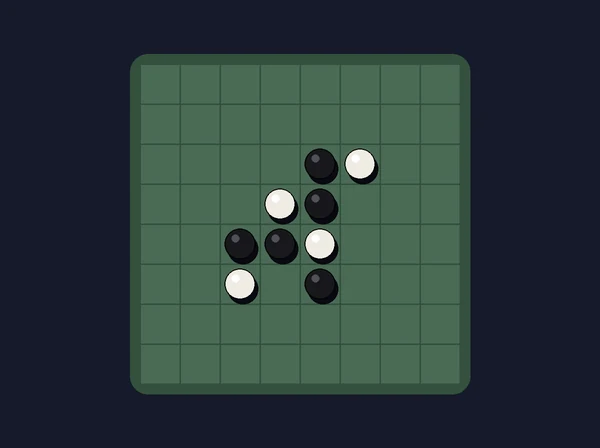
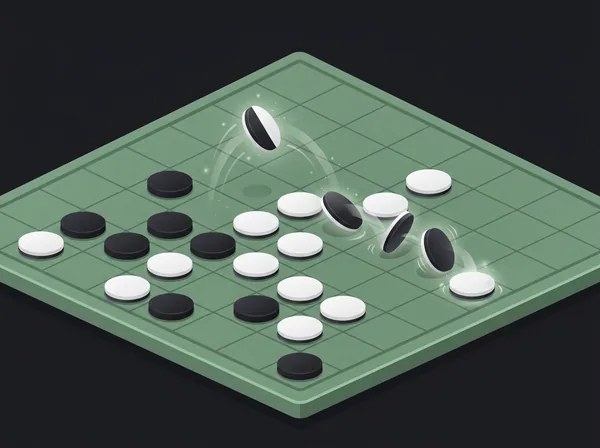
Vignettes des nouveaux jeux (28 images)

diff --git a/assets/js/jeux/catalogue.js b/assets/js/jeux/catalogue.js
@@ -48,40 +48,40 @@ export const CARTES = [
   { id: 'arcade-raclette', image: `${IMG}arcade-raclette.webp`, titre: 'Raclette', texte: 'Un jeu d’arcade qui sent bon le fromage.', section: 'flash', href: '#arcade-raclette', couleur: 'var(--amber)',
     icone: '<path d="M3 15l9-8 9 8z"/><path d="M7 15v3h10v-3"/><path d="M10 12h.01M14 13h.01"/>' },
   // Nouveaux jeux en développement : visibles et jouables par les seuls admins (admin: true)
-  { id: 'nj-carte', titre: 'Carte mystère', texte: 'Reconnais la carte floutée.', section: 'flash', href: '#carte-mystere', onglet: 'carte-mystere', admin: true, couleur: 'var(--plum)',
+  { id: 'nj-carte', image: `${IMG}nj-carte.webp`, titre: 'Carte mystère', texte: 'Reconnais la carte floutée.', section: 'flash', href: '#carte-mystere', onglet: 'carte-mystere', admin: true, couleur: 'var(--plum)',
     icone: '<rect x="5" y="3" width="14" height="18" rx="2"/><path d="M10 9.5a2 2 0 1 1 2.8 1.8c-.5.3-.8.7-.8 1.2V13M12 16.5v.01"/>' },
-  { id: 'nj-jv', titre: 'Jeu vidéo du jour', texte: 'Une capture zoomée : quel jeu ?', section: 'flash', href: '#jeu-video', onglet: 'jeu-video', admin: true, couleur: 'var(--slate)',
+  { id: 'nj-jv', image: `${IMG}nj-jv.webp`, titre: 'Jeu vidéo du jour', texte: 'Une capture zoomée : quel jeu ?', section: 'flash', href: '#jeu-video', onglet: 'jeu-video', admin: true, couleur: 'var(--slate)',
     icone: '<rect x="2" y="7" width="20" height="10" rx="4"/><path d="M7 10v4M5 12h4M15 11h.01M18 13h.01"/>' },
-  { id: 'nj-pochette', titre: 'Pochette du jour', texte: 'Retrouve l’album derrière le flou.', section: 'flash', href: '#pochette', onglet: 'pochette', admin: true, couleur: 'var(--rose)',
+  { id: 'nj-pochette', image: `${IMG}nj-pochette.webp`, titre: 'Pochette du jour', texte: 'Retrouve l’album derrière le flou.', section: 'flash', href: '#pochette', onglet: 'pochette', admin: true, couleur: 'var(--rose)',
     icone: '<rect x="3" y="3" width="18" height="18" rx="2"/><circle cx="12" cy="12" r="4"/><circle cx="12" cy="12" r=".5"/>' },
-  { id: 'nj-replique', titre: 'Réplique du jour', texte: 'Une réplique culte : quel film ?', section: 'flash', href: '#replique', onglet: 'replique', admin: true, couleur: 'var(--sand)',
+  { id: 'nj-replique', image: `${IMG}nj-replique.webp`, titre: 'Réplique du jour', texte: 'Une réplique culte : quel film ?', section: 'flash', href: '#replique', onglet: 'replique', admin: true, couleur: 'var(--sand)',
     icone: '<path d="M4 5h16v11H9l-5 4z"/><path d="M8 9h1M12 9h1M8 12h5"/>' },
-  { id: 'nj-pays', titre: 'Pays du jour', texte: 'Une silhouette, six essais.', section: 'flash', href: '#pays', onglet: 'pays', admin: true, couleur: 'var(--sage)',
+  { id: 'nj-pays', image: `${IMG}nj-pays.webp`, titre: 'Pays du jour', texte: 'Une silhouette, six essais.', section: 'flash', href: '#pays', onglet: 'pays', admin: true, couleur: 'var(--sage)',
     icone: '<circle cx="12" cy="12" r="9"/><path d="M3 12h18M12 3a14 14 0 0 1 0 18M12 3a14 14 0 0 0 0 18"/>' },
-  { id: 'nj-plat', titre: 'Plat du jour', texte: 'D’où vient ce plat ?', section: 'flash', href: '#plat', onglet: 'plat', admin: true, couleur: 'var(--amber)',
+  { id: 'nj-plat', image: `${IMG}nj-plat.webp`, titre: 'Plat du jour', texte: 'D’où vient ce plat ?', section: 'flash', href: '#plat', onglet: 'plat', admin: true, couleur: 'var(--amber)',
     icone: '<path d="M3 13h18a9 9 0 0 1-18 0z"/><path d="M8 9c0-2 2-2 2-4M13 9c0-2 2-2 2-4"/>' },
-  { id: 'nj-connexions', titre: 'Connexions', texte: '16 mots, 4 groupes cachés.', section: 'flash', href: '#connexions', onglet: 'connexions', admin: true, couleur: 'var(--sage)',
+  { id: 'nj-connexions', image: `${IMG}nj-connexions.webp`, titre: 'Connexions', texte: '16 mots, 4 groupes cachés.', section: 'flash', href: '#connexions', onglet: 'connexions', admin: true, couleur: 'var(--sage)',
     icone: '<rect x="3" y="3" width="8" height="8" rx="2"/><rect x="13" y="3" width="8" height="8" rx="2"/><rect x="3" y="13" width="8" height="8" rx="2"/><rect x="13" y="13" width="8" height="8" rx="2"/>' },
-  { id: 'nj-motscroises', titre: 'Mots croisés', texte: 'Une mini grille par jour.', section: 'flash', href: '#mots-croises', onglet: 'mots-croises', admin: true, couleur: 'var(--sand)',
+  { id: 'nj-motscroises', image: `${IMG}nj-motscroises.webp`, titre: 'Mots croisés', texte: 'Une mini grille par jour.', section: 'flash', href: '#mots-croises', onglet: 'mots-croises', admin: true, couleur: 'var(--sand)',
     icone: '<path d="M3 3h18v18H3z"/><path d="M3 9h18M9 3v18"/>' },
-  { id: 'nj-motmele', titre: 'Mot mêlé', texte: 'Retrouve les mots cachés.', section: 'flash', href: '#mot-mele', onglet: 'mot-mele', admin: true, couleur: 'var(--slate)',
+  { id: 'nj-motmele', image: `${IMG}nj-motmele.webp`, titre: 'Mot mêlé', texte: 'Retrouve les mots cachés.', section: 'flash', href: '#mot-mele', onglet: 'mot-mele', admin: true, couleur: 'var(--slate)',
     icone: '<rect x="3" y="3" width="18" height="18" rx="2"/><path d="M7 7l10 10"/>' },
-  { id: 'nj-anagramme', titre: 'Anagramme', texte: 'Remets les lettres dans l’ordre.', section: 'flash', href: '#anagramme', onglet: 'anagramme', admin: true, couleur: 'var(--rose)',
+  { id: 'nj-anagramme', image: `${IMG}nj-anagramme.webp`, titre: 'Anagramme', texte: 'Remets les lettres dans l’ordre.', section: 'flash', href: '#anagramme', onglet: 'anagramme', admin: true, couleur: 'var(--rose)',
     icone: '<path d="M4 17l4-10 4 10M5.5 13h5M14 7h6l-6 10h6"/>' },
-  { id: 'nj-nerdle', titre: 'Nerdle du gang', texte: 'Devine le calcul en 6 essais.', section: 'flash', href: '#nerdle', onglet: 'nerdle', admin: true, couleur: 'var(--plum)',
+  { id: 'nj-nerdle', image: `${IMG}nj-nerdle.webp`, titre: 'Nerdle du gang', texte: 'Devine le calcul en 6 essais.', section: 'flash', href: '#nerdle', onglet: 'nerdle', admin: true, couleur: 'var(--plum)',
     icone: '<path d="M5 8h4M7 6v4M15 8h4M5 16h4M15 15h4M15 17h4"/>' },
-  { id: 'nj-sudoku', titre: 'Sudoku du jour', texte: 'La même grille pour tout le gang.', section: 'flash', href: '#sudoku', onglet: 'sudoku', admin: true, couleur: 'var(--slate)',
+  { id: 'nj-sudoku', image: `${IMG}nj-sudoku.webp`, titre: 'Sudoku du jour', texte: 'La même grille pour tout le gang.', section: 'flash', href: '#sudoku', onglet: 'sudoku', admin: true, couleur: 'var(--slate)',
     icone: '<rect x="3" y="3" width="18" height="18" rx="1"/><path d="M9 3v18M15 3v18M3 9h18M3 15h18"/>' },
-  { id: 'nj-demineur', titre: 'Démineur', texte: 'Évite les cœurs cachés, au chrono.', section: 'flash', href: '#demineur', admin: true, couleur: 'var(--rust)',
+  { id: 'nj-demineur', image: `${IMG}nj-demineur.webp`, titre: 'Démineur', texte: 'Évite les cœurs cachés, au chrono.', section: 'flash', href: '#demineur', admin: true, couleur: 'var(--rust)',
     icone: '<rect x="3" y="3" width="18" height="18" rx="2"/><path d="M3 9h18M3 15h18M9 3v18M15 3v18"/>' },
-  { id: 'nj-2048', titre: '2048 Paillettes', texte: 'Fusionne jusqu’à la légendaire.', section: 'flash', href: '#2048', admin: true, couleur: 'var(--sand)',
+  { id: 'nj-2048', image: `${IMG}nj-2048.webp`, titre: '2048 Paillettes', texte: 'Fusionne jusqu’à la légendaire.', section: 'flash', href: '#2048', admin: true, couleur: 'var(--sand)',
     icone: '<rect x="3" y="3" width="8" height="8" rx="1"/><rect x="13" y="3" width="8" height="8" rx="1"/><rect x="3" y="13" width="8" height="8" rx="1"/><rect x="13" y="13" width="8" height="8" rx="1"/>' },
-  { id: 'arcade-flappy', titre: 'Flappy Domu', texte: 'Le cœur du gang s’envole.', section: 'flash', href: '#arcade-flappy', admin: true, couleur: 'var(--rose)' },
-  { id: 'arcade-briques', titre: 'Casse-briques', texte: 'Des cartes en briques.', section: 'flash', href: '#arcade-briques', admin: true, couleur: 'var(--amber)' },
-  { id: 'arcade-snake', titre: 'Snake', texte: 'Mange des raclettes, grandis.', section: 'flash', href: '#arcade-snake', admin: true, couleur: 'var(--sage)' },
-  { id: 'arcade-tetris', titre: 'Tetris du gang', texte: 'Des pièces arc-en-ciel.', section: 'flash', href: '#arcade-tetris', admin: true, couleur: 'var(--slate)' },
-  { id: 'arcade-invaders', titre: 'Space Invaders', texte: 'Les cornichons attaquent.', section: 'flash', href: '#arcade-invaders', admin: true, couleur: 'var(--sage)' },
-  { id: 'arcade-taupe', titre: 'Tape-taupe', texte: 'Tape les membres qui sortent.', section: 'flash', href: '#arcade-taupe', admin: true, couleur: 'var(--rust)' },
+  { id: 'arcade-flappy', image: `${IMG}arcade-flappy.webp`, titre: 'Flappy Domu', texte: 'Le cœur du gang s’envole.', section: 'flash', href: '#arcade-flappy', admin: true, couleur: 'var(--rose)' },
+  { id: 'arcade-briques', image: `${IMG}arcade-briques.webp`, titre: 'Casse-briques', texte: 'Des cartes en briques.', section: 'flash', href: '#arcade-briques', admin: true, couleur: 'var(--amber)' },
+  { id: 'arcade-snake', image: `${IMG}arcade-snake.webp`, titre: 'Snake', texte: 'Mange des raclettes, grandis.', section: 'flash', href: '#arcade-snake', admin: true, couleur: 'var(--sage)' },
+  { id: 'arcade-tetris', image: `${IMG}arcade-tetris.webp`, titre: 'Tetris du gang', texte: 'Des pièces arc-en-ciel.', section: 'flash', href: '#arcade-tetris', admin: true, couleur: 'var(--slate)' },
+  { id: 'arcade-invaders', image: `${IMG}arcade-invaders.webp`, titre: 'Space Invaders', texte: 'Les cornichons attaquent.', section: 'flash', href: '#arcade-invaders', admin: true, couleur: 'var(--sage)' },
+  { id: 'arcade-taupe', image: `${IMG}arcade-taupe.webp`, titre: 'Tape-taupe', texte: 'Tape les membres qui sortent.', section: 'flash', href: '#arcade-taupe', admin: true, couleur: 'var(--rust)' },
   { id: 'arcade-domu', image: `${IMG}arcade-domu.webp`, titre: 'Domu-mobile', texte: 'Conduis, esquive, arrive en premier.', section: 'flash', href: '#arcade-domu', couleur: 'var(--rust)',
     icone: '<path d="M3 15l2-5h11l3 5"/><path d="M3 15h18v2H3z"/><circle cx="7.5" cy="18" r="1.5"/><circle cx="16.5" cy="18" r="1.5"/>' },
 
@@ -92,13 +92,13 @@ export const CARTES = [
   { id: 'morpion', titre: 'Morpion', texte: 'Classique, Ultime ou Gomoku.', section: 'multi', href: 'duels.html#creer/morpion', page: 'duels', image: `${IMG}morpion.webp` },
   { id: 'bataille-navale', titre: 'Bataille navale', texte: 'Cache ta flotte, coule la sienne.', section: 'multi', href: 'duels.html#creer/bataille', page: 'duels', image: `${IMG}bataille-navale.webp` },
   { id: 'mastermind', titre: 'Mastermind', texte: 'Perce le code secret.', section: 'multi', href: 'duels.html#creer/mastermind', page: 'duels', image: `${IMG}mastermind.webp` },
-  { id: 'nj-dames', titre: 'Dames', texte: 'Prises obligatoires, rafles et dames volantes.', section: 'multi', href: 'duels.html#creer/dames', admin: true, couleur: 'var(--slate)',
+  { id: 'nj-dames', image: `${IMG}dames.webp`, titre: 'Dames', texte: 'Prises obligatoires, rafles et dames volantes.', section: 'multi', href: 'duels.html#creer/dames', admin: true, couleur: 'var(--slate)',
     icone: '<circle cx="8" cy="8" r="3"/><circle cx="16" cy="16" r="3"/><path d="M3 3h18v18H3z"/>' },
-  { id: 'nj-echecs', titre: 'Échecs', texte: 'Le grand classique, contre un membre ou le robot.', section: 'multi', href: 'duels.html#creer/echecs', admin: true, couleur: 'var(--sand)',
+  { id: 'nj-echecs', image: `${IMG}echecs.webp`, titre: 'Échecs', texte: 'Le grand classique, contre un membre ou le robot.', section: 'multi', href: 'duels.html#creer/echecs', admin: true, couleur: 'var(--sand)',
     icone: '<path d="M9 21h6M8 18h8M10 18l-1-6h6l-1 6M9 12a3 3 0 1 1 6 0M12 3v3M10.5 4.5h3"/>' },
-  { id: 'nj-othello', titre: 'Othello', texte: 'Encadre et retourne les pions.', section: 'multi', href: 'duels.html#creer/othello', admin: true, couleur: 'var(--sage)',
+  { id: 'nj-othello', image: `${IMG}othello.webp`, titre: 'Othello', texte: 'Encadre et retourne les pions.', section: 'multi', href: 'duels.html#creer/othello', admin: true, couleur: 'var(--sage)',
     icone: '<circle cx="8" cy="12" r="4"/><circle cx="16" cy="12" r="4" fill="currentColor"/>' },
-  { id: 'nj-pfc', titre: 'Pierre-feuille-ciseaux', texte: 'En 1, 3 ou 5 manches.', section: 'multi', href: 'duels.html#creer/pfc', admin: true, couleur: 'var(--rose)',
+  { id: 'nj-pfc', image: `${IMG}pfc.webp`, titre: 'Pierre-feuille-ciseaux', texte: 'En 1, 3 ou 5 manches.', section: 'multi', href: 'duels.html#creer/pfc', admin: true, couleur: 'var(--rose)',
     icone: '<circle cx="7" cy="16" r="3"/><rect x="12" y="4" width="8" height="10" rx="1"/><path d="M5 4l6 8M11 4l-6 8"/>' },
   { id: 'qui-est-ce', titre: 'Qui est-ce ?', texte: 'Devine son personnage secret.', section: 'multi', href: 'duels.html#creer/quiestce', page: 'duels', image: `${IMG}qui-est-ce.webp` },
   { id: 'nom-de-code', titre: 'Codenames', texte: 'Fais deviner tes mots à ton équipe.', section: 'multi', href: 'nom-de-code.html', page: 'nom-de-code', image: `${IMG}nom-de-code.webp` },
@@ -109,13 +109,13 @@ export const CARTES = [
   { id: 'uno', image: `${IMG}uno.webp`, titre: 'Uno', texte: 'Vide ta main avant les autres.', section: 'speciaux', href: 'uno.html', page: 'uno', couleur: 'var(--rose)',
     icone: '<rect x="4" y="5" width="10" height="15" rx="2" transform="rotate(-10 9 12)"/><rect x="10" y="4" width="10" height="15" rx="2" transform="rotate(8 15 11)"/>' },
   // Nouveaux jeux de plateau en développement (admins seulement)
-  { id: 'nj-blackjack', titre: 'Blackjack', texte: 'Contre la banque, à qui s’approche de 21.', section: 'speciaux', href: 'blackjack.html', admin: true, couleur: 'var(--sage)',
+  { id: 'nj-blackjack', image: `${IMG}blackjack.webp`, titre: 'Blackjack', texte: 'Contre la banque, à qui s’approche de 21.', section: 'speciaux', href: 'blackjack.html', admin: true, couleur: 'var(--sage)',
     icone: '<rect x="3" y="5" width="11" height="15" rx="2"/><rect x="10" y="3" width="11" height="15" rx="2"/><path d="M14 9l2 3-2 3-2-3z"/>' },
-  { id: 'nj-poker', titre: 'Poker', texte: 'Texas Hold’em, en jetons.', section: 'speciaux', href: 'poker.html', admin: true, couleur: 'var(--rust)',
+  { id: 'nj-poker', image: `${IMG}poker.webp`, titre: 'Poker', texte: 'Texas Hold’em, en jetons.', section: 'speciaux', href: 'poker.html', admin: true, couleur: 'var(--rust)',
     icone: '<circle cx="12" cy="12" r="9"/><circle cx="12" cy="12" r="4"/><path d="M12 3v3M12 18v3M3 12h3M18 12h3"/>' },
-  { id: 'nj-catan', titre: 'Catan du gang', texte: 'Récolte, construis, atteins 10 points.', section: 'speciaux', href: 'catan.html', admin: true, couleur: 'var(--amber)',
+  { id: 'nj-catan', image: `${IMG}catan.webp`, titre: 'Catan du gang', texte: 'Récolte, construis, atteins 10 points.', section: 'speciaux', href: 'catan.html', admin: true, couleur: 'var(--amber)',
     icone: '<path d="M12 2l8 4.5v9L12 20l-8-4.5v-9z"/><path d="M12 2v18M4 6.5l16 9M20 6.5l-16 9"/>' },
-  { id: 'nj-pictionary', titre: 'Pictionary', texte: 'Dessine, les autres devinent.', section: 'speciaux', href: 'pictionary.html', admin: true, couleur: 'var(--plum)',
+  { id: 'nj-pictionary', image: `${IMG}pictionary.webp`, titre: 'Pictionary', texte: 'Dessine, les autres devinent.', section: 'speciaux', href: 'pictionary.html', admin: true, couleur: 'var(--plum)',
     icone: '<path d="M4 20l4-1 11-11-3-3L5 16z"/><path d="M14 6l3 3"/>' },
   // Jeux de plateau (migrations 125 à 130) : pages en mode admin au lancement
   { id: 'cluedo', titre: 'Cluedo', texte: 'Qui a tué le Docteur Lenoir ? Mène l’enquête.', section: 'speciaux', href: 'cluedo.html', page: 'cluedo', image: `${IMG}cluedo.webp` },

diff --git a/assets/js/plateaux/vues/accueil.js b/assets/js/plateaux/vues/accueil.js
@@ -14,7 +14,7 @@ import { plat, contenus, erreurTexte, jeu } from '../api.js';
 const INTERVALLE_PUBLIQUES = 15000;
 
 /** Image d'en-tête par jeu (dossier assets/img/jeux). */
-const IMAGE = { cluedo: 'cluedo', shadow: 'shadow-hunter', destins: 'destins', monopoly: 'monopoly', risk: 'risk' };
+const IMAGE = { cluedo: 'cluedo', shadow: 'shadow-hunter', destins: 'destins', monopoly: 'monopoly', risk: 'risk', blackjack: 'blackjack', poker: 'poker', catan: 'catan', pictionary: 'pictionary' };
 
 /** Règles en bref, par jeu (règles officielles, versions adaptées à l'appli). */
 const REGLES = {

diff --git a/sw.js b/sw.js
@@ -15,7 +15,7 @@
 /* ---------- Constantes ---------- */
 
 // Nom du cache : préfixe commun + version. Les caches des anciennes versions (même préfixe) sont supprimés à l'activation.
-const CACHE_VERSION = 'v89';
+const CACHE_VERSION = 'v90';
 const CACHE_PREFIX = 'hg-coque-';
 const CACHE = `${CACHE_PREFIX}${CACHE_VERSION}`;
 // Q4 : images des cartes (même nom et même plafond que assets/js/offline-store.js). Hors du préfixe : gardé d'une version à l'autre.
